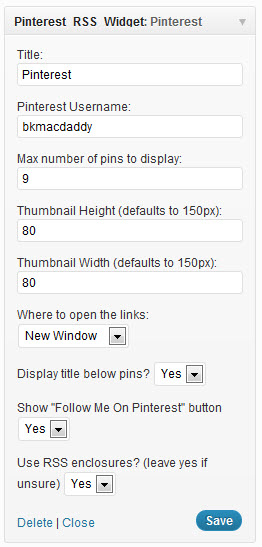
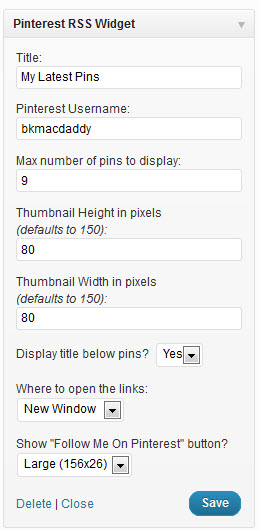
uploading and tagging version 1.2.5
git-svn-id: https://plugins.svn.wordpress.org/pinterest-rss-widget/tags/1.2.5@492455 b8457f37-d9ea-0310-8a92-e5e31aec5664

diff --git a/pinterest-rss-widget.php b/pinterest-rss-widget.php
@@ -4,7 +4,7 @@ Plugin Name: Pinterest RSS Widget
 Plugin URI: http://www.bkmacdaddy.com/pinterest-rss-widget-a-wordpress-plugin-to-display-your-latest-pins/
 Description: Display up to 90 of your latest Pinterest Pins in your sidebar. You are welcome to express your gratitude for this plugin by donating via <a href="https://www.paypal.com/cgi-bin/webscr?cmd=_s-xclick&hosted_button_id=SXTEL7YLUSFFC" target="_blank"><strong>PayPal</strong></a>
 Author: bkmacdaddy designs
-Version: 1.2.4
+Version: 1.2.5
 Author URI: http://bkmacdaddy.com/
 
 /* License
@@ -38,7 +38,7 @@ function add_pinterest_rss_css() {
 	}
 }
 
-function get_pins_feed_list($username, $maxfeeds=90, $divname='standard', $printtext=NULL, $target='samewindow', $useenclosures='yes', $thumbwidth='150', $thumbheight='150', $showfollow='yes') {
+function get_pins_feed_list($username, $maxfeeds=90, $divname='standard', $printtext=NULL, $target='samewindow', $useenclosures='yes', $thumbwidth='150', $thumbheight='150', $showfollow='large') {
 
                 // This is the main function of the plugin. It is used by the widget and can also be called from anywhere in your theme. See the readme file for example.
 
@@ -100,18 +100,29 @@ function get_pins_feed_list($username, $maxfeeds=90, $divname='standard', $print
 		</ul>
         <?php 
 			$pinterest_followButton = plugins_url('follow-on-pinterest-button.png', __FILE__);
-			if ($showfollow == 'yes') { ?>
-            <a href="http://pinterest.com/<?php echo $username; ?>/" id="pins-feed-follow" target="_blank">
+			if ($showfollow == 'large') { ?>
+            <a href="http://pinterest.com/<?php echo $username; ?>/" id="pins-feed-follow" target="_blank" class="followLarge" title="Follow Me on Pinterest">
                 <img src="http://passets-cdn.pinterest.com/images/follow-on-pinterest-button.png" width="156" height="26" alt="Follow Me on Pinterest" border="0" />
             </a>
-		<?php } ?>
-                <?php
+		<?php } elseif ($showfollow == 'medium') { ?>
+        	<a href="http://pinterest.com/<?php echo $username; ?>/" id="pins-feed-follow" target="_blank" class="followMed" title="Follow Me on Pinterest">
+                <img src="http://passets-cdn.pinterest.com/images/pinterest-button.png" width="78" height="26" alt="Follow Me on Pinterest" border="0" />
+            </a>
+        <?php } elseif ($showfollow == 'small') { ?>
+        	<a href="http://pinterest.com/<?php echo $username; ?>/" id="pins-feed-follow" target="_blank" class="followSmall" title="Follow Me on Pinterest">
+                <img src="http://passets-cdn.pinterest.com/images/big-p-button.png" width="61" height="61" alt="Follow Me on Pinterest" border="0" />
+            </a>
+        <?php } elseif ($showfollow == 'tiny') { ?>
+        	<a href="http://pinterest.com/<?php echo $username; ?>/" id="pins-feed-follow" target="_blank" class="followTiny" title="Follow Me on Pinterest">
+                <img src="http://passets-cdn.pinterest.com/images/small-p-button.png" width="16" height="16" alt="Follow Me on Pinterest" border="0" />
+            </a>
+        <?php } elseif ($showfollow == 'none') {} 
 }
 
 class Pinterest_RSS_Widget extends WP_Widget {
   function Pinterest_RSS_Widget() {
     $widget_ops = array('classname' => 'pinterest_rss_widget', 'description' => 'A widget to display latest Pinterest Pins via RSS feed' );
-    $this->WP_Widget('pinterest_rss_widget', 'Pinterest_RSS_Widget', $widget_ops);
+    $this->WP_Widget('pinterest_rss_widget', 'Pinterest RSS Widget', $widget_ops);
   }
 
   function widget($args, $instance) {
@@ -141,7 +152,7 @@ class Pinterest_RSS_Widget extends WP_Widget {
 
     if ( empty( $thumb_height ) ) { $thumb_height = '150'; };
 
-    if ( empty( $showfollow ) ) { $showfollow = 'yes'; };
+    if ( empty( $showfollow ) ) { $showfollow = 'none'; };
 
     if ( !empty( $user_name ) ) {
 
@@ -181,29 +192,17 @@ class Pinterest_RSS_Widget extends WP_Widget {
     $useenclosures = strip_tags($instance['useenclosures']);
     $showfollow = strip_tags($instance['showfollow']);
 ?>
-      <p><label for="<?php echo $this->get_field_id('title'); ?>">Title: <input class="widefat" id="<?php echo $this->get_field_id('title'); ?>" name="<?php echo $this->get_field_name('title'); ?>" type="text" value="<?php echo attribute_escape($title); ?>" /></label></p>
+      <p><label for="<?php echo $this->get_field_id('title'); ?>">Title: <br /><input class="widefat" id="<?php echo $this->get_field_id('title'); ?>" name="<?php echo $this->get_field_name('title'); ?>" type="text" value="<?php echo attribute_escape($title); ?>" /></label></p>
 								    
-      <p><label for="<?php echo $this->get_field_id('user_name__title'); ?>">Pinterest Username: <input class="widefat" id="<?php echo $this->get_field_id('user_name'); ?>" name="<?php echo $this->get_field_name('user_name'); ?>" type="text" value="<?php echo attribute_escape($user_name); ?>" /></label></p>
+      <p><label for="<?php echo $this->get_field_id('user_name__title'); ?>">Pinterest Username: <br /><input class="widefat" id="<?php echo $this->get_field_id('user_name'); ?>" name="<?php echo $this->get_field_name('user_name'); ?>" type="text" value="<?php echo attribute_escape($user_name); ?>" /></label></p>
 		     
-      <p><label for="<?php echo $this->get_field_id('maxnumber'); ?>">Max number of pins to display: <input class="widefat" id="<?php echo $this->get_field_id('maxnumber'); ?>" name="<?php echo $this->get_field_name('maxnumber'); ?>" type="text" value="<?php echo attribute_escape($maxnumber); ?>" /></label></p>
+      <p><label for="<?php echo $this->get_field_id('maxnumber'); ?>">Max number of pins to display: <br /><input class="widefat" id="<?php echo $this->get_field_id('maxnumber'); ?>" name="<?php echo $this->get_field_name('maxnumber'); ?>" type="text" value="<?php echo attribute_escape($maxnumber); ?>" /></label></p>
       
-      <p><label for="<?php echo $this->get_field_id('thumb_height'); ?>">Thumbnail Height in pixels (defaults to 150): <input class="widefat" id="<?php echo $this->get_field_id('thumb_height'); ?>" name="<?php echo $this->get_field_name('thumb_height'); ?>" type="text" value="<?php echo attribute_escape($thumb_height); ?>" /></label></p>
+      <p><label for="<?php echo $this->get_field_id('thumb_height'); ?>">Thumbnail Height in pixels<br /><em>(defaults to 150):</em><br /><input class="widefat" id="<?php echo $this->get_field_id('thumb_height'); ?>" name="<?php echo $this->get_field_name('thumb_height'); ?>" type="text" value="<?php echo attribute_escape($thumb_height); ?>" /></label></p>
       
-      <p><label for="<?php echo $this->get_field_id('thumb_width'); ?>">Thumbnail Width in pixels (defaults to 150): <input class="widefat" id="<?php echo $this->get_field_id('thumb_width'); ?>" name="<?php echo $this->get_field_name('thumb_width'); ?>" type="text" value="<?php echo attribute_escape($thumb_width); ?>" /></label></p>
+      <p><label for="<?php echo $this->get_field_id('thumb_width'); ?>">Thumbnail Width in pixels<br /><em>(defaults to 150):</em><br /><input class="widefat" id="<?php echo $this->get_field_id('thumb_width'); ?>" name="<?php echo $this->get_field_name('thumb_width'); ?>" type="text" value="<?php echo attribute_escape($thumb_width); ?>" /></label></p>
 
-      <p><label for="<?php echo $this->get_field_id('target'); ?>">Where to open the links: <select id="<?php echo $this->get_field_id('target'); ?>" name="<?php echo $this->get_field_name('target'); ?>">
-        <?php 
-  	  echo '<option ';
-          if ( $instance['target'] == 'samewindow' ) { echo 'selected '; }
-          echo 'value="samewindow">';
-	  echo 'Same Window</option>';
-  	  echo '<option ';
-          if ( $instance['target'] == 'newwindow' ) { echo 'selected '; }
-          echo 'value="newwindow">';
-	  echo 'New Window</option>'; ?>
-      </select></label></p>
-
-      <p><label for="<?php echo $this->get_field_id('displaytitle'); ?>">Display title below pins? <select id="<?php echo $this->get_field_id('displaytitle'); ?>" name="<?php echo $this->get_field_name('displaytitle'); ?>">
+      <p><label for="<?php echo $this->get_field_id('displaytitle'); ?>">Display title below pins? &nbsp;<select id="<?php echo $this->get_field_id('displaytitle'); ?>" name="<?php echo $this->get_field_name('displaytitle'); ?>">
         <?php 
   	  echo '<option ';
           if ( $instance['displaytitle'] == 'yes' ) { echo 'selected '; }
@@ -215,28 +214,41 @@ class Pinterest_RSS_Widget extends WP_Widget {
 	  echo 'No</option>'; ?>
       </select></label></p>
       
-      <p><label for="<?php echo $this->get_field_id('showfollow'); ?>">Show "Follow Me On Pinterest" button <select id="<?php echo $this->get_field_id('showfollow'); ?>" name="<?php echo $this->get_field_name('showfollow'); ?>">
+      <p><label for="<?php echo $this->get_field_id('target'); ?>">Where to open the links: <br /><select id="<?php echo $this->get_field_id('target'); ?>" name="<?php echo $this->get_field_name('target'); ?>">
         <?php 
   	  echo '<option ';
-          if ( $instance['showfollow'] == 'yes' ) { echo 'selected '; }
-          echo 'value="yes">';
-	  echo 'Yes</option>';
+          if ( $instance['target'] == 'samewindow' ) { echo 'selected '; }
+          echo 'value="samewindow">';
+	  echo 'Same Window</option>';
   	  echo '<option ';
-          if ( $instance['showfollow'] == 'no' ) { echo 'selected '; }
-          echo 'value="no">';
-	  echo 'No</option>'; ?>
-      </select></label></p>
-
-      <p><label for="<?php echo $this->get_field_id('useenclosures'); ?>">Use RSS enclosures? (leave yes if unsure) <select id="<?php echo $this->get_field_id('useenclosures'); ?>" name="<?php echo $this->get_field_name('useenclosures'); ?>">
+          if ( $instance['target'] == 'newwindow' ) { echo 'selected '; }
+          echo 'value="newwindow">';
+	  echo 'New Window</option>'; ?>
+      </select></label></p>      
+      
+      <p><label for="<?php echo $this->get_field_id('showfollow'); ?>">Show "Follow Me On Pinterest" button? <br /><select id="<?php echo $this->get_field_id('showfollow'); ?>" name="<?php echo $this->get_field_name('showfollow'); ?>">
         <?php 
-  	  echo '<option ';
-          if ( $instance['useenclosures'] == 'yes' ) { echo 'selected '; }
-          echo 'value="yes">';
-	  echo 'Yes</option>';
-  	  echo '<option ';
-          if ( $instance['useenclosures'] == 'no' ) { echo 'selected '; }
-          echo 'value="no">';
-	  echo 'No</option>'; ?>
+			echo '<option ';
+				if ( $instance['showfollow'] == 'large' ) { echo 'selected '; }
+					echo 'value="large">';
+					echo 'Large (156x26) </option>';
+			echo '<option ';
+				if ( $instance['showfollow'] == 'medium' ) { echo 'selected '; }
+					echo 'value="medium">';
+					echo 'Medium (78x26) </option>'; 
+			echo '<option ';
+				if ( $instance['showfollow'] == 'small' ) { echo 'selected '; }
+					echo 'value="small">';
+					echo 'Small (61x61) </option>';
+			echo '<option ';
+				if ( $instance['showfollow'] == 'tiny' ) { echo 'selected '; }
+					echo 'value="tiny">';
+					echo 'Tiny (16x16) </option>';
+			echo '<option ';
+				if ( $instance['showfollow'] == 'none' ) { echo 'selected '; }
+					echo 'value="none">';
+					echo 'None </option>';
+		?>
       </select></label></p>
 
 <?php
